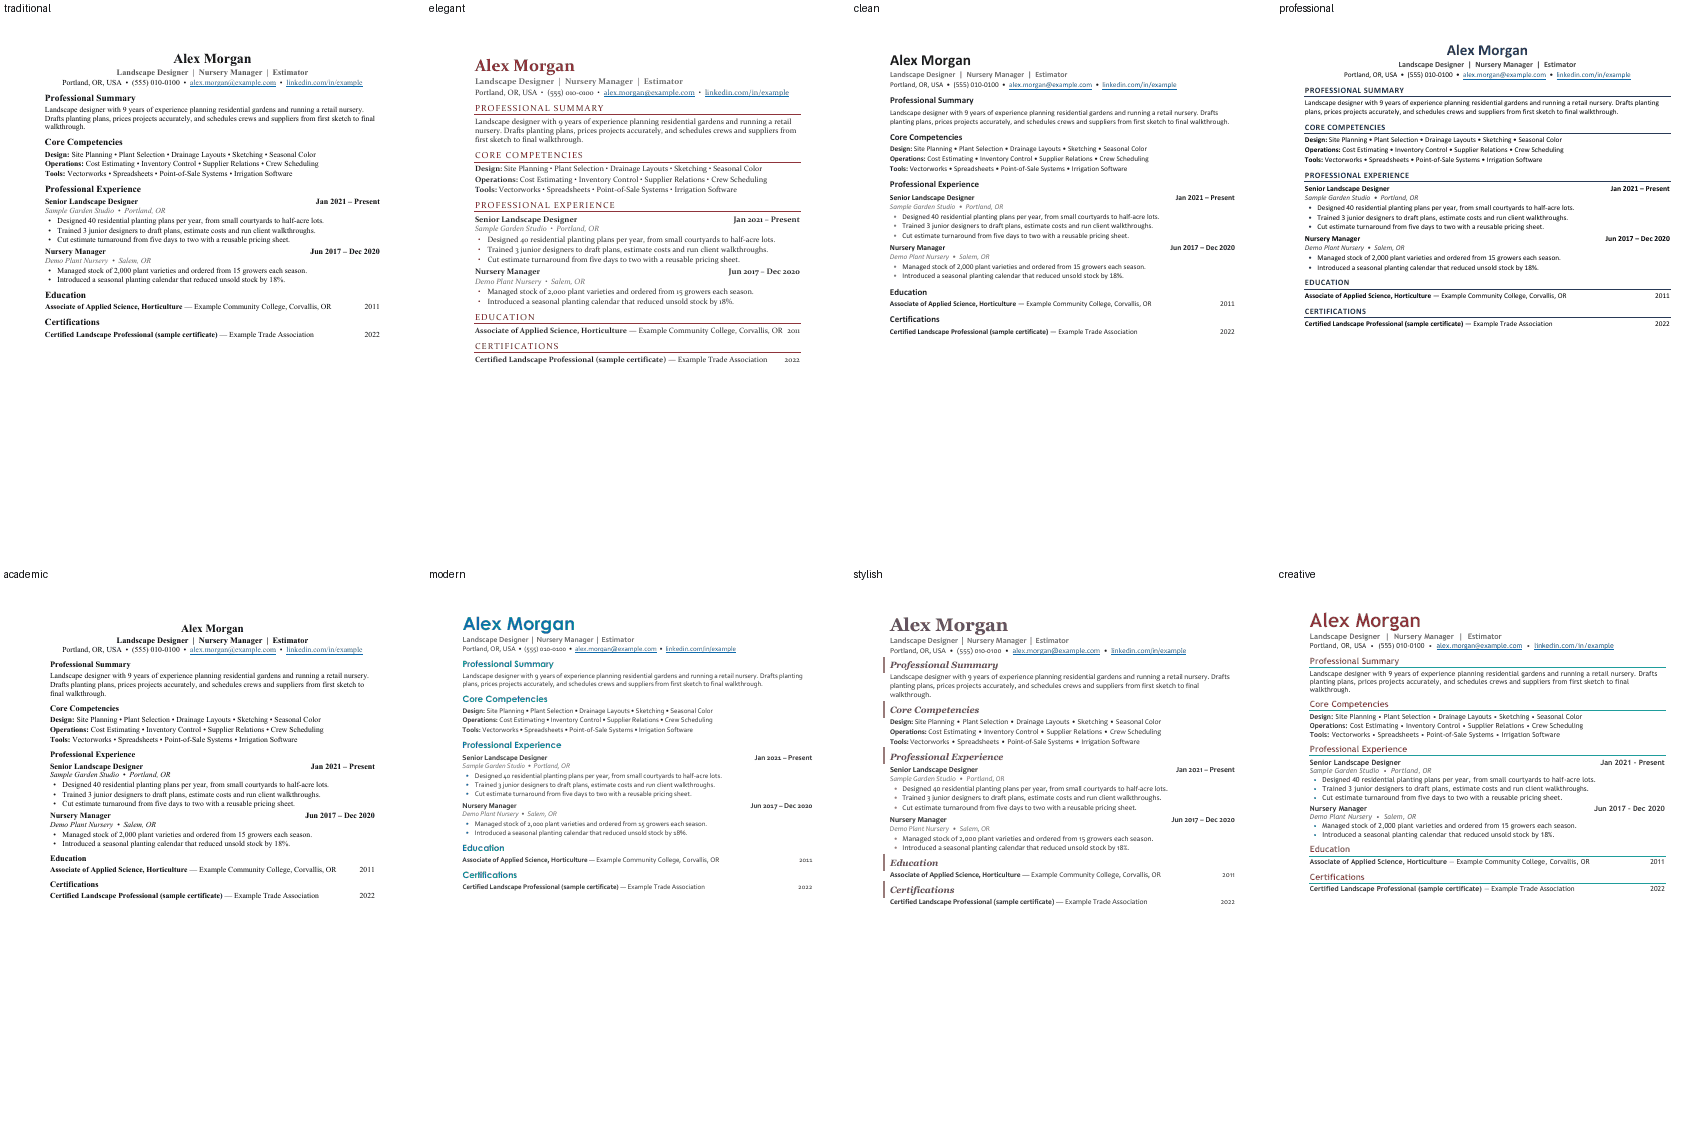
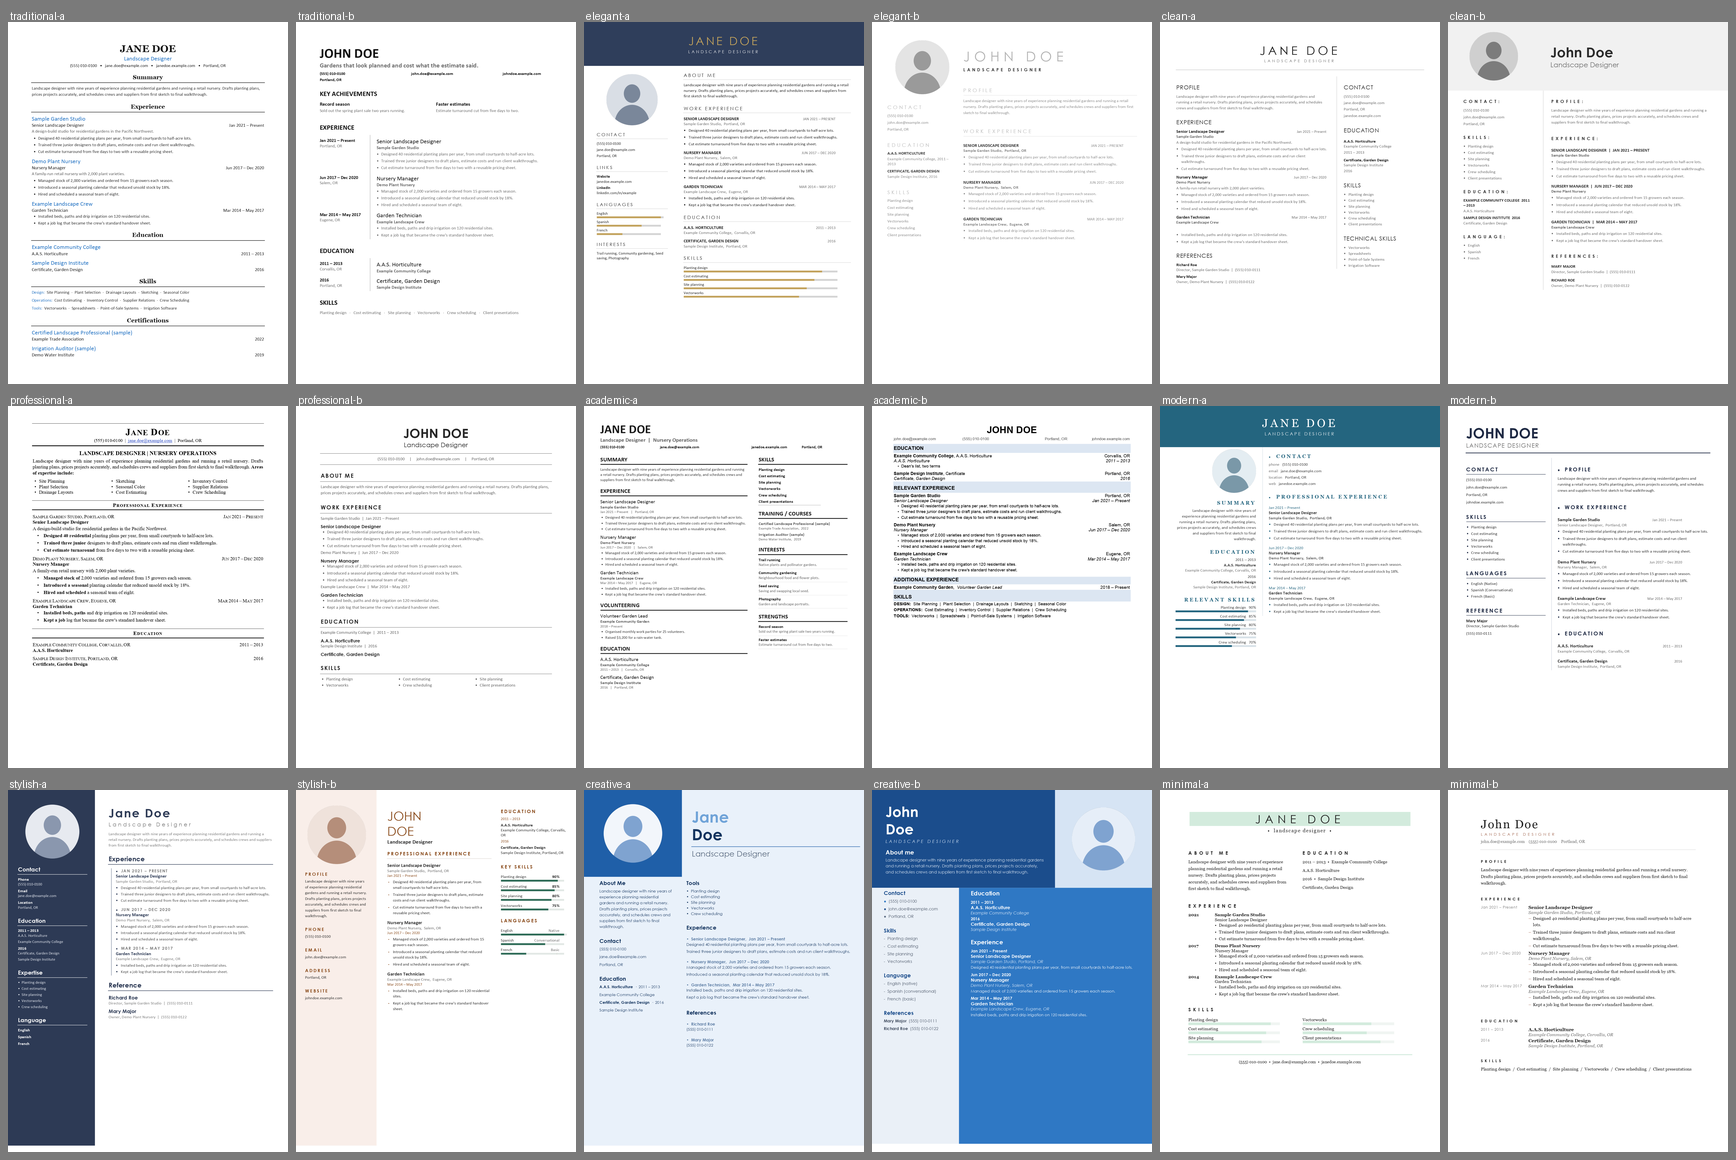
styles: résumé previews replaced with the redesigned layouts (WordCraft and ONLYOFFICE renders)

diff --git a/styles/README.md b/styles/README.md
@@ -16,10 +16,11 @@ WordCraft and ONLYOFFICE, so they produce the same look. All sample text is inve
 | `creative` | Coral headings, teal rule, Trebuchet, big title | Portfolios, workshop handouts, creative-field résumés |
 
 ![WordCraft documents](gallery/wordcraft-doc.png)
-![ONLYOFFICE résumés](gallery/onlyoffice-resume.png)
+![The redesigned résumés rendered by WordCraft](gallery/wordcraft-resume.png)
+![The same résumés rendered by ONLYOFFICE](gallery/onlyoffice-resume.png)
 ![WordCraft options: columns, APA, MLA, résumé layouts, CV with photo, header and footer](gallery/wordcraft-features.png)
 
-More in `gallery/` (both apps; documents, résumés, A4 CVs, features).
+The résumé previews show the redesigned layouts (nine styles, two layouts each; see "Redesigned résumés" below). The plain single-column ATS résumé is still the `resume` kind of `build_wordcraft.py`. More in `gallery/` (both apps; documents, A4 CVs, features; the CV and feature images were made before the sample name changed to Jane Doe).
 
 ## Use
 
